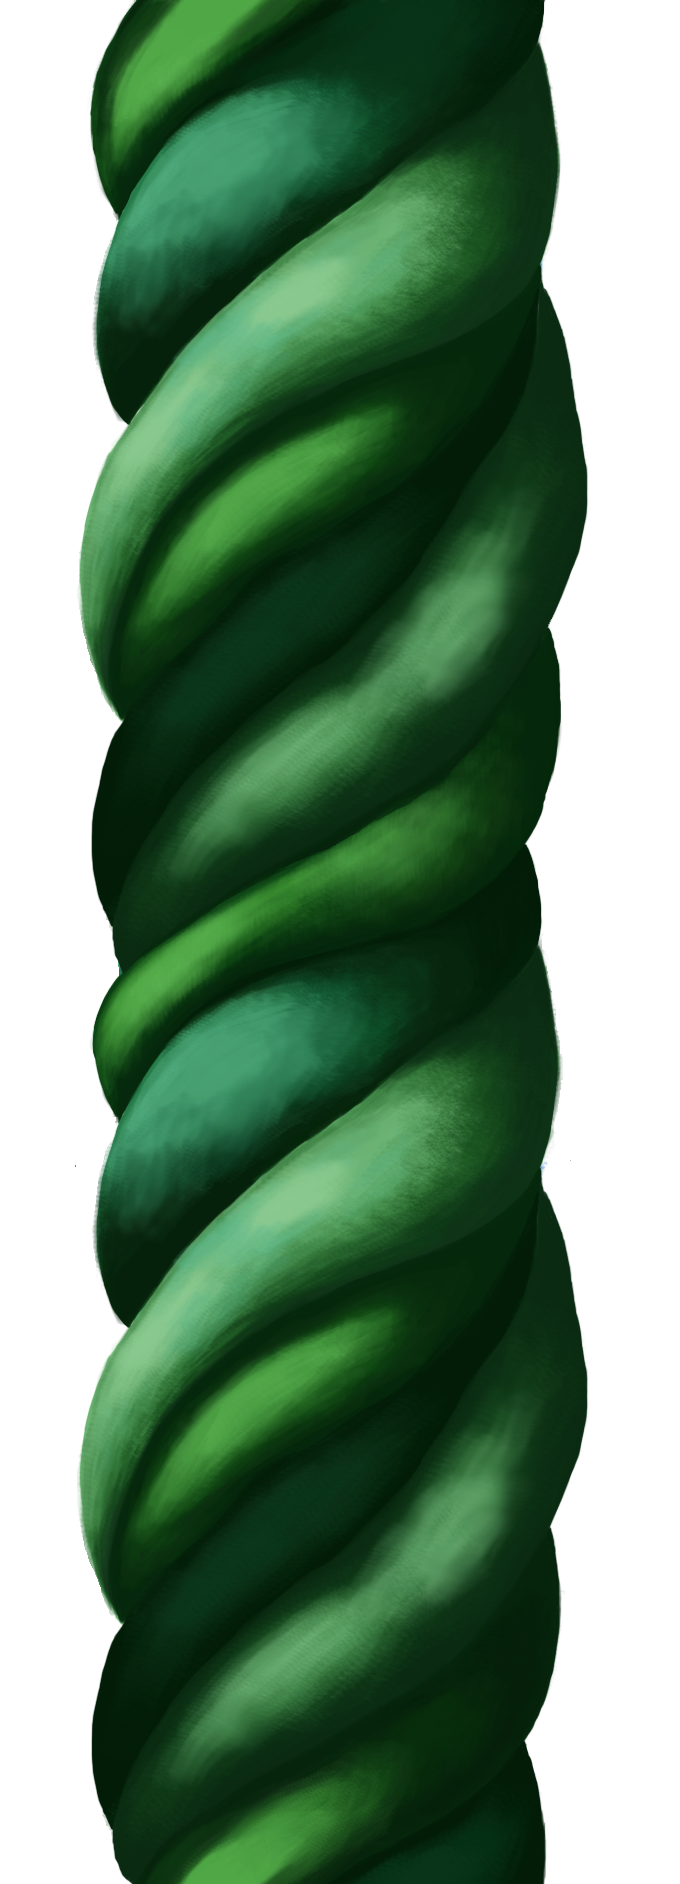
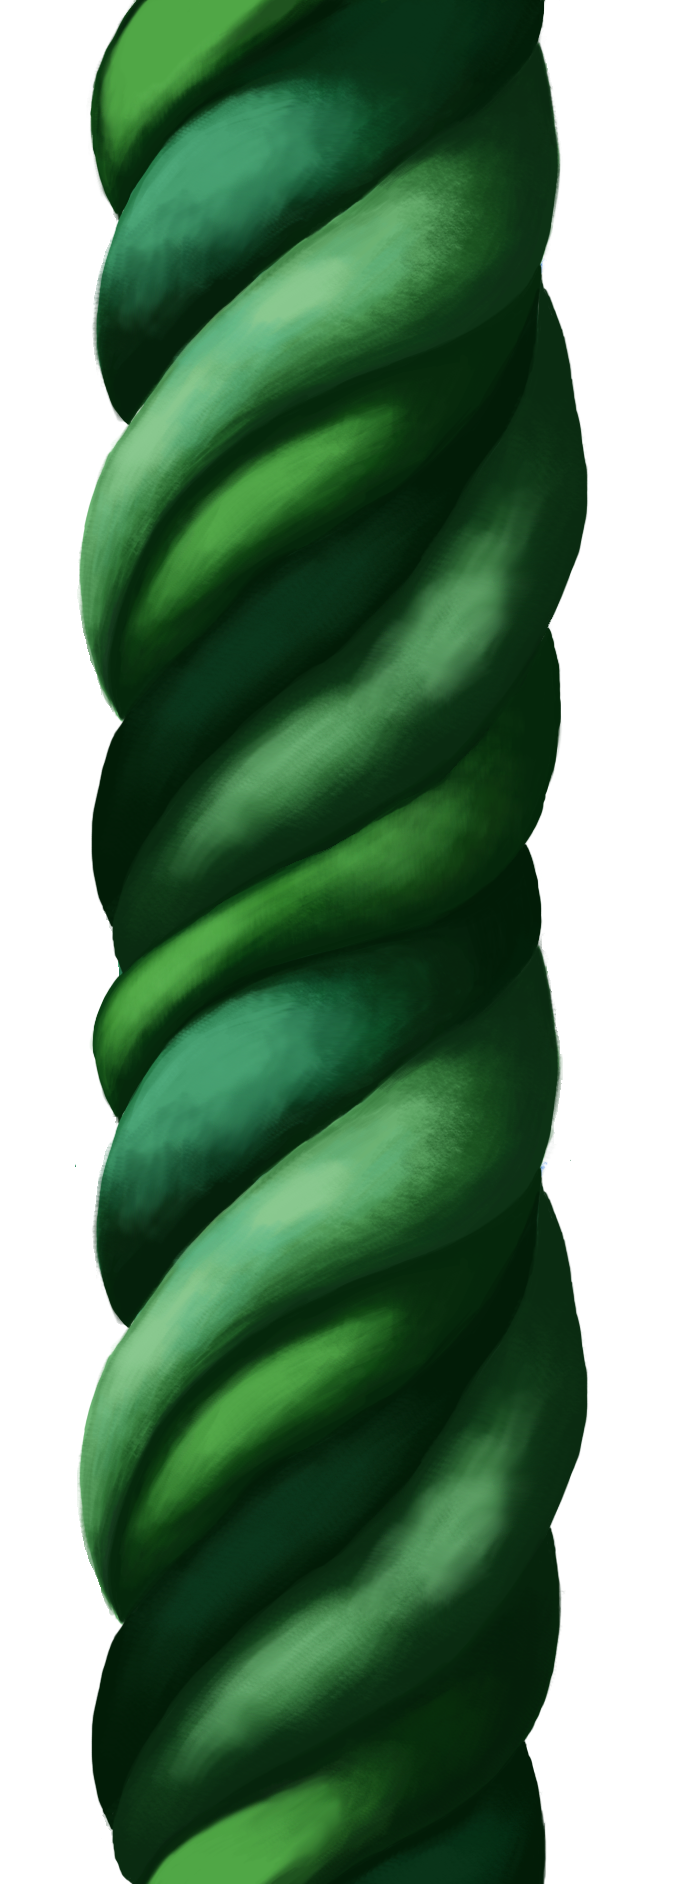
beanstalk changes + leaf cutoff fix

Changed region(s): [[0.2162, 0.9236, 0.4632, 1.0], [0.1235, 0.0, 0.2471, 0.0924]]

diff --git a/scripts/gameUI.js b/scripts/gameUI.js
@@ -77,7 +77,7 @@ var gameUI = function () {
             top2 = this.setBackgroundPos(top2.top);
 
             // determines which background to add platforms onto
-            if (top1 > -1100 && top1 < 800) {
+            if (top1 > -1000 && top1 < 800) {  
                 self.top.name = '#playBoard1';
                 self.top.pos = top1;
             }
@@ -212,7 +212,7 @@ var platform = function (id, top) {
         // set the starting yPos
         self.yPos = 800;
         self.width = 150;
-        self.height = 25;
+        self.height = 157; 
         // give the platforms a random x pos
         self.xPos = (Math.floor(Math.random() * (boardWidth - self.width)));
     };
